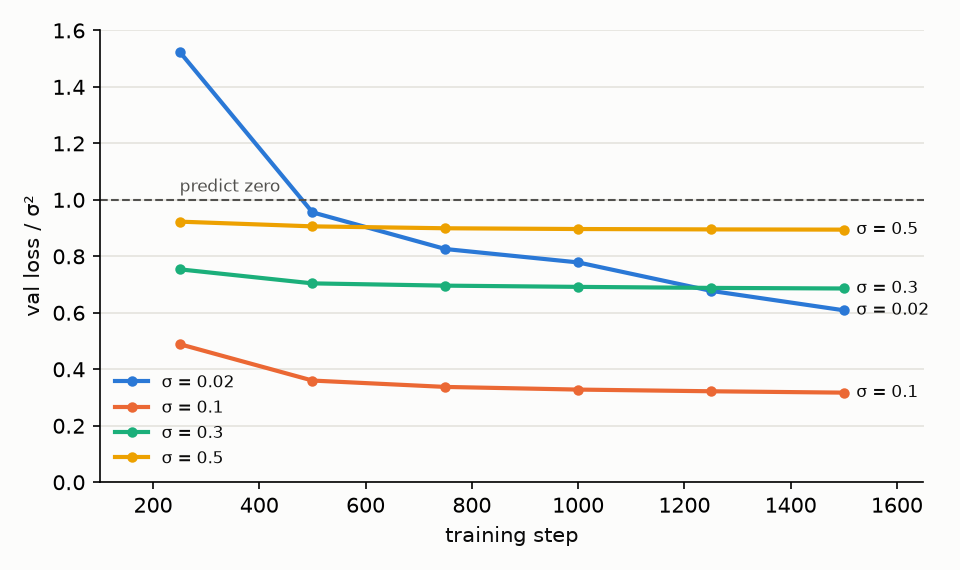
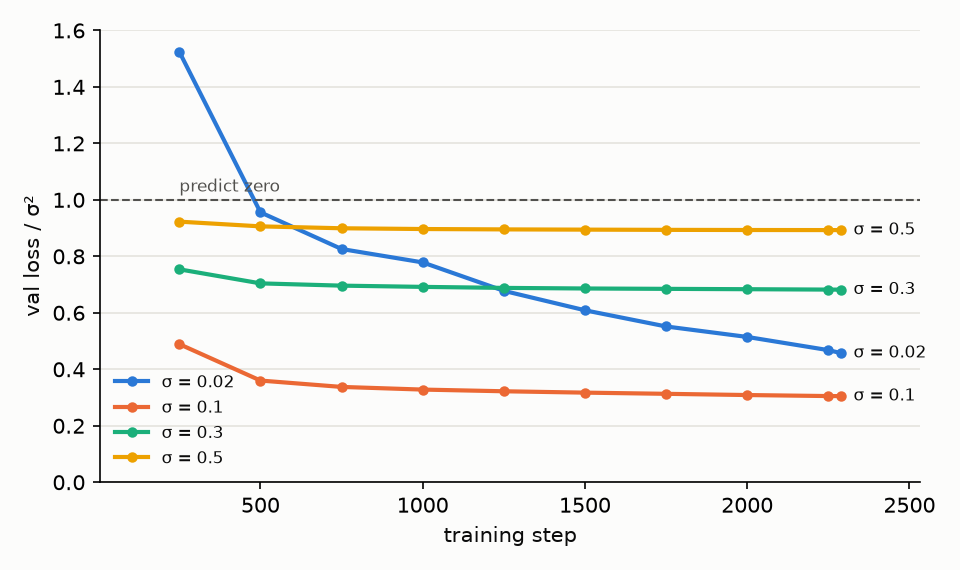
cpu_smoke: training curve for the full 2,289-update run

diff --git a/results/cpu_smoke/README.md b/results/cpu_smoke/README.md
@@ -9,7 +9,7 @@ baselines and the floor a first measurement. Real runs need a GPU (README quicks
 | Item | Smoke run | Planned GPU run |
 |---|---|---|
 | Model | EGNN-PBC, hidden 64, 3 layers (108k parameters) | hidden 128, 4 layers |
-| Training | 1,000 updates (batch 8, lr 1e-3, EMA 0.99), ~45 min on 2 busy threads | 40,000 updates (`configs/train/uncond.yaml`) |
+| Training | samples used the step-1,000 checkpoint (batch 8, lr 1e-3, EMA 0.99); the run continued to 2,289 updates in 80 min on 2 busy threads | 40,000 updates (`configs/train/uncond.yaml`) |
 | Sampling | 650 steps (600 noisy + 50 final), 8 samples | 3,000 steps, 256 samples |
 | Defect | D2 only | D1−, D1+, D2 |
 
@@ -50,7 +50,9 @@ machine, so compare them only to each other.
 * `hand_insert_D2.png`, `local_melt_quench_D2.png`, `B1_uncond_taskA.png`,
   `B5_repaint_taskB.png`: four relaxed samples per method, with the requested location
   (+ and the r_tol circle), pinned atoms hatched, defects ringed, and success per panel
-* `training_curve.png`: validation loss / σ² per noise level (1 = predicting zero)
+* `training_curve.png`: validation loss / σ² per noise level (1 = predicting zero), for the full
+  2,289-update run; at the end the model removes 55% of the noise at σ = 0.02, 70% at 0.1,
+  32% at 0.3 and 11% at 0.5, and it was still improving
 
 ## Reproduce
 
